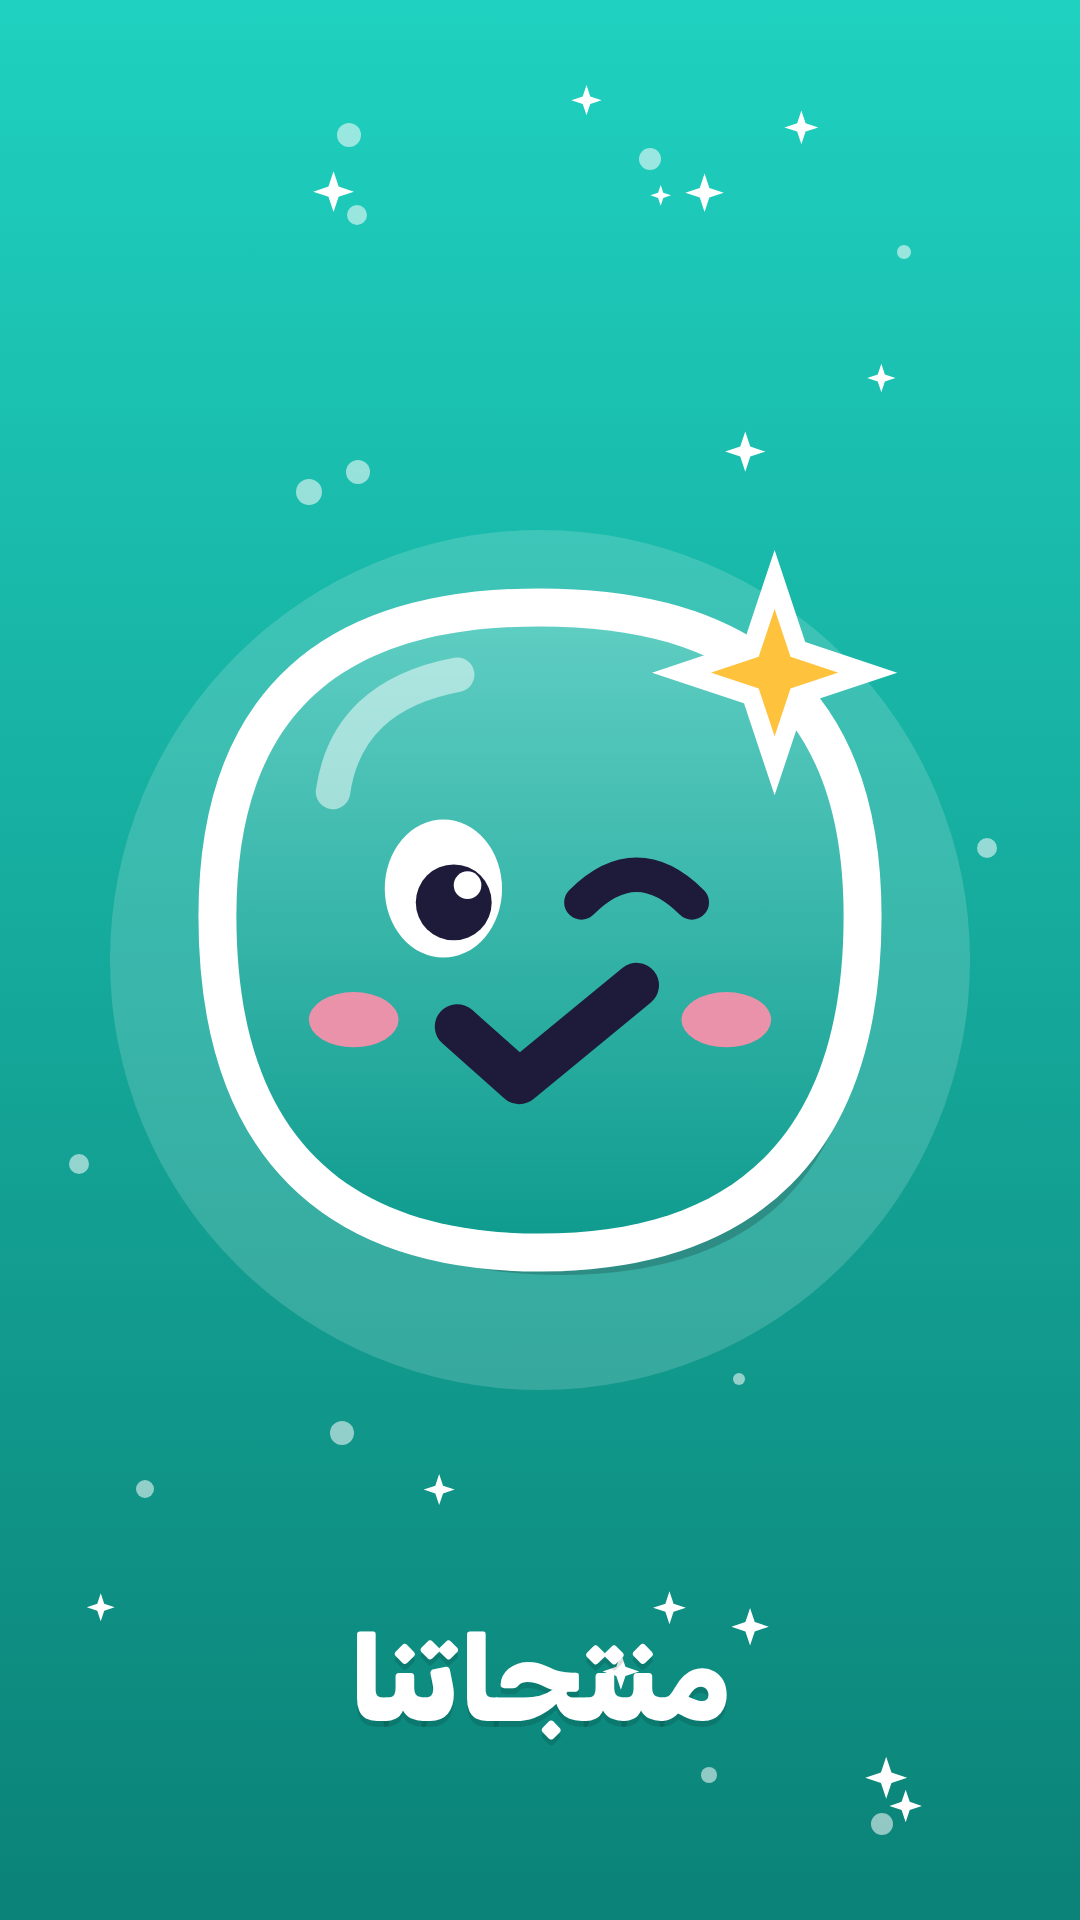
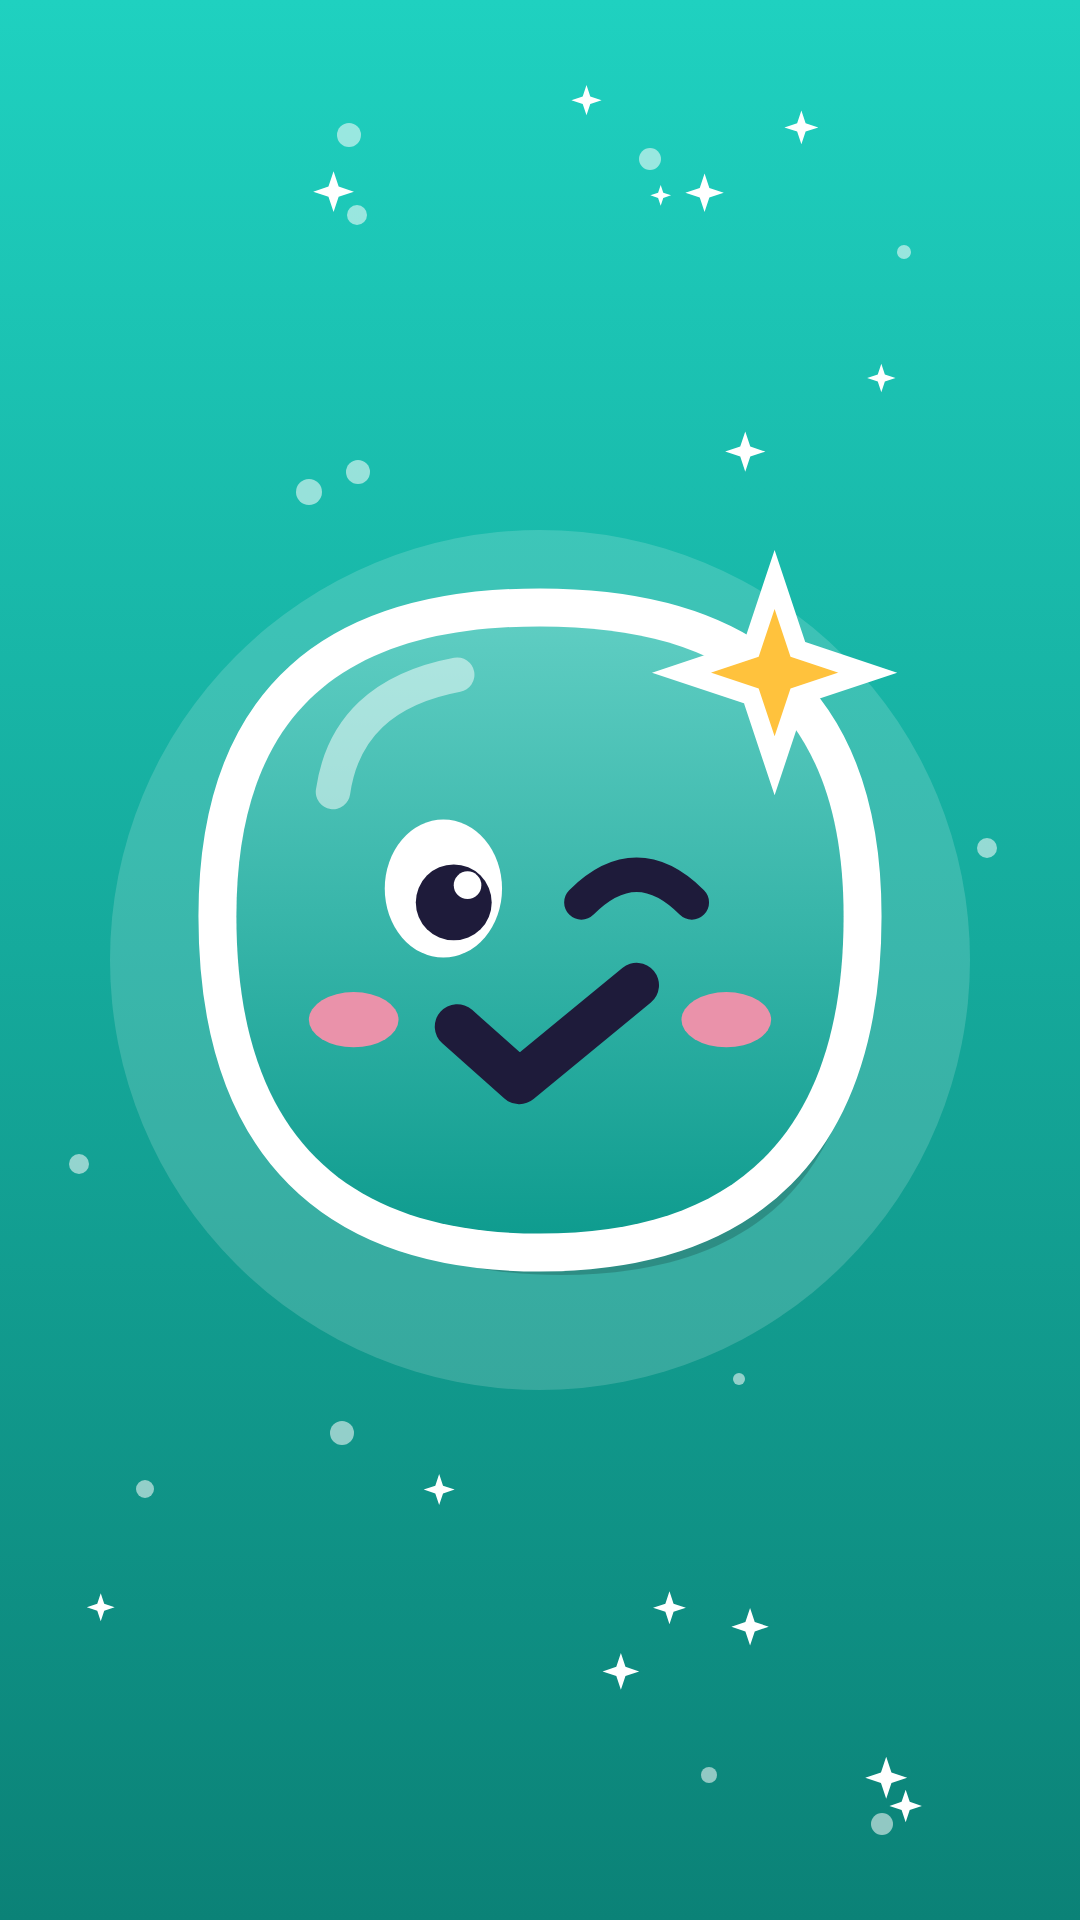
Highlight covers: images only, no text
Claude-Session: https://claude.ai/code/session_01GWfywGzp39p4URjeog9ZPH

Changed region(s): [[0.3056, 0.8438, 0.6722, 0.9062]]

diff --git a/oneclick/docs/INSTAGRAM.md b/oneclick/docs/INSTAGRAM.md
@@ -26,7 +26,7 @@ publishing **PRODUCTION CONNECTION REQUIRES OWNER** (Meta Professional account +
   2. `خلّي يومك أسهل بضغطة وحدة 🖱` / `مفكّرة العروسة، مخطط رمضان، الميزانية والمزيد` / `عربي + English · من عُمان 🇴🇲` / `جرّبها قبل لا تشتريها 👇`
   3. `أدوات رقمية جميلة لكل يوم ✨` / `من الفوضى إلى الوضوح، بضغطة وحدة` / `عربي + English · من عُمان 🇴🇲` / `👇 تصفّح وجرّب`
 - Link: `https://www.oneclick.computer/ar`
-- Clicky family highlight covers (1080×1920, character centered for the circle crop) in `docs/instagram/highlights/`:
+- Clicky family highlight covers (1080×1920, no text, character centered for the circle crop) in `docs/instagram/highlights/`:
   Clicky = منتجاتنا, Warda = العروسة, Shams = نصايح, Marjan = أسئلتكم, Lilac = حسابك, all five = عائلتنا.
 
 ## Formats
